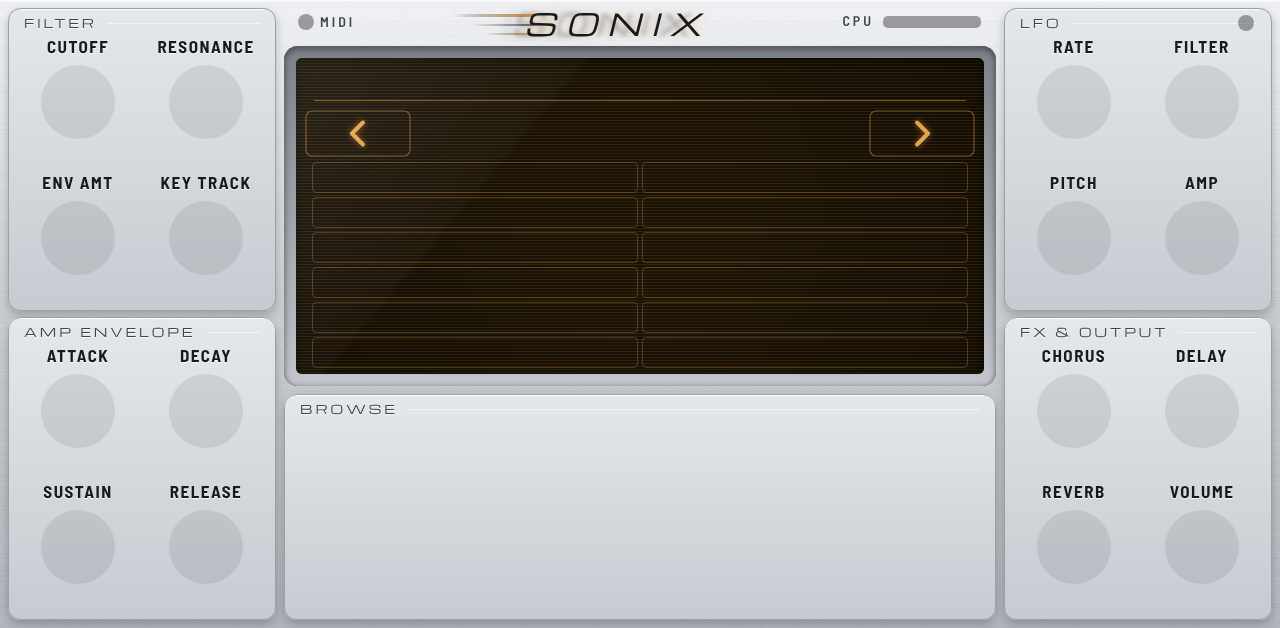
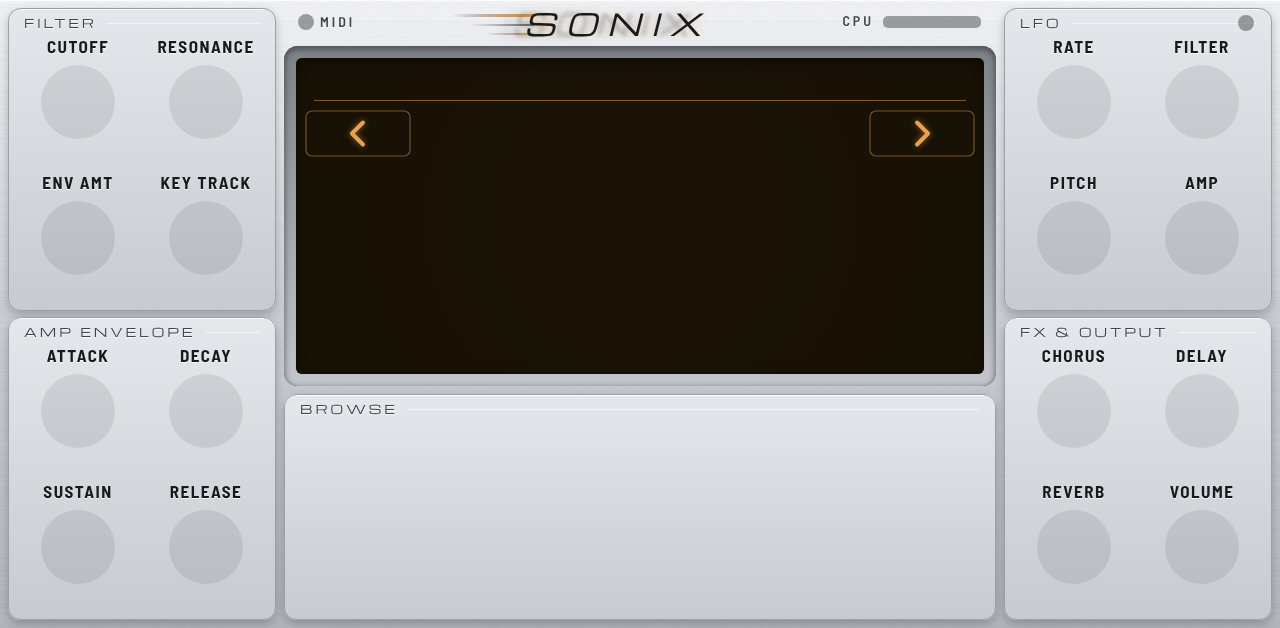
Preset list rows: their own pictures per colorway (the skin builder names them by size), cut from each LCD's glass; per-colorway highlight
Claude-Session: https://claude.ai/code/session_01PybJ2syxRUbVjbLiUhaYAG

Changed region(s): [[0.2188, 0.0908, 0.75, 0.5446]]

diff --git a/tools/make_skin.py b/tools/make_skin.py
@@ -98,6 +98,12 @@ WAVE_FRAMES = 33                                             # 0 idle, then 4 le
 CELL_Y, CELL_H, CELL_W, CELL_GAP = SY + 178, 44, (SW - 32 - 8) // 2, 8   # the four layers, 2 x 2
 LIST_BOX = (SX + 16, SY + 104, SW - 32, 206)                 # the preset list (2 x 6 rows) in place of the waveform view
 LIST_COLS, LIST_ROWS, LIST_TH, LIST_GAP = 2, 6, 31, 4
+
+
+def list_tw(n):
+    """Row width for theme n. The skin builder names a list's row pictures by size, so each colorway's list is 2 px
+    narrower than the one before: its own pictures, invisible on screen."""
+    return (LIST_BOX[2] - 2 * n - (LIST_COLS - 1) * LIST_GAP) // LIST_COLS
 LCD_LINE = (SX + 18, SY + 276, SW - 36, 32)
 LFO_LED = (RX + SIDE_W - 26, SIDE_Y + 15)                    # an LED by the LFO panel's title, lit while the LFO runs
 BROWSE = (CX0, 394, CW, 226)
@@ -269,7 +275,7 @@ const T = {
     panel1:'#262a32', panel2:'#1a1d22', panelEdge:'#0b0c0f', bevelHi:'rgba(255,255,255,0.09)', drop:'rgba(0,0,0,0.55)',
     text:'#e4e7ec', muted:'#a3acba', engrave:[0,-1,'rgba(0,0,0,0.75)'], logo:'#eef1f5', logoGlow:'rgba(76,195,255,0.6)',
     led:'#4cc3ff', ledOff:'#1d2732', ledGlow:'rgba(76,195,255,0.7)',
-    bezel1:'#0b0c0f', bezel2:'#22252c', lcd:'#06121f', lcdText:'#9fe4ff', lcdDim:'#7cc2e6', rowFill:0.26, lcdFaint:'rgba(143,220,255,0.10)', lcdGlow:'rgba(120,210,255,0.5)',
+    bezel1:'#0b0c0f', bezel2:'#22252c', lcd:'#06121f', lcdText:'#9fe4ff', lcdDim:'#7cc2e6', rowFill:0.2, lcdFaint:'rgba(143,220,255,0.10)', lcdGlow:'rgba(120,210,255,0.5)',
     knobHi:'#5a616d', knobLo:'#0a0b0d', knobEdge:'#050607', capHi:'#454a54', capLo:'#16181c', ridge:'rgba(255,255,255,0.10)', knobLine:'#eef1f5',
     btnTop:'#3b404a', btnBot:'#22252b', btnOnTop:'#16293c', btnOnBot:'#0e1b28', btnEdge:'#0b0c0f', btnShadow:'#07080a', btnText:'#d9dde4',
     btnEngrave:[0,-1,'rgba(0,0,0,0.75)'], screw:['#70767f','#2a2d33'], well:'rgba(0,0,0,0.16)', name:'MIDNIGHT' },
@@ -277,7 +283,7 @@ const T = {
     panel1:'#e4e7eb', panel2:'#c7cbd1', panelEdge:'#9aa0a7', bevelHi:'rgba(255,255,255,0.9)', drop:'rgba(0,0,0,0.22)',
     text:'#16191d', muted:'#3d444e', engrave:[0,1,'rgba(255,255,255,0.8)'], logo:'#16191d', logoGlow:'rgba(255,154,31,0.4)',
     led:'#ff9a1f', ledOff:'#9f9b93', ledGlow:'rgba(255,154,31,0.7)',
-    bezel1:'#7c8188', bezel2:'#c3c7cd', lcd:'#1a1206', lcdText:'#ffbe5c', lcdDim:'#e6a24f', rowFill:0.26, lcdFaint:'rgba(255,182,72,0.10)', lcdGlow:'rgba(255,170,60,0.5)',
+    bezel1:'#7c8188', bezel2:'#c3c7cd', lcd:'#1a1206', lcdText:'#ffbe5c', lcdDim:'#e6a24f', rowFill:0.2, lcdFaint:'rgba(255,182,72,0.10)', lcdGlow:'rgba(255,170,60,0.5)',
     knobHi:'#7c828c', knobLo:'#121417', knobEdge:'#0c0d0f', capHi:'#686e77', capLo:'#1e2125', ridge:'rgba(255,255,255,0.13)', knobLine:'#f4f4f4',
     btnTop:'#fbfbfc', btnBot:'#cdd1d6', btnOnTop:'#fff5e6', btnOnBot:'#efd2ad', btnEdge:'#939880', btnShadow:'#858a91', btnText:'#1f2328',
     btnEngrave:[0,1,'rgba(255,255,255,0.85)'], screw:['#ffffff','#999da4'], well:'rgba(0,0,0,0.08)', name:'PLATINUM' },
@@ -285,7 +291,7 @@ const T = {
     panel1:'#b8bbbf', panel2:'#9ea1a5', panelEdge:'#7a7d82', bevelHi:'rgba(255,255,255,0.6)', drop:'rgba(0,0,0,0.26)',
     text:'#121417', muted:'#262a2f', engrave:[0,1,'rgba(255,255,255,0.5)'], logo:'#121417', logoGlow:'rgba(255,61,46,0.3)',
     led:'#ff3d2e', ledOff:'#74777b', ledGlow:'rgba(255,61,46,0.65)',
-    bezel1:'#222427', bezel2:'#4b4e52', lcd:'#a8bc86', lcdText:'#16200c', lcdDim:'#3a4826', rowFill:0.85, rowTint:'#d6e6b8', lcdFaint:'rgba(22,32,12,0.08)', lcdGlow:'rgba(0,0,0,0)',
+    bezel1:'#222427', bezel2:'#4b4e52', lcd:'#a8bc86', lcdText:'#16200c', lcdDim:'#3a4826', rowFill:0.45, rowTint:'#eef6dc', lcdFaint:'rgba(22,32,12,0.08)', lcdGlow:'rgba(0,0,0,0)',
     knobHi:'#6e747d', knobLo:'#101113', knobEdge:'#0a0b0c', capHi:'#5b6068', capLo:'#1a1c1f', ridge:'rgba(255,255,255,0.11)', knobLine:'#f0f0f0',
     btnTop:'#eceef0', btnBot:'#b7babe', btnOnTop:'#fff1ef', btnOnBot:'#efc6c0', btnEdge:'#73767b', btnShadow:'#62656a', btnText:'#15171a',
     btnEngrave:[0,1,'rgba(255,255,255,0.6)'], screw:['#e7e8ea','#7c7f84'], well:'rgba(0,0,0,0.10)', name:'STUDIO GREY' },
@@ -352,16 +358,16 @@ function logo(t, lx, ly, size) {
   text('SONIX', lx, ly, { size: size, font: 'Michroma', weight: 400, italic: 1, spacing: 10 * s, color: t.logo, glow: t.logoGlow, glowBlur: 10 * s });
 }
 // a recessed LCD: bezel, screen, vignette, inner shadow (glass glare is drawn last, over the content)
-function lcdFrame(t, bezel, screen, r) {
+function lcdFrame(t, bezel, screen, r, smooth) {   // smooth: the list view's glass (no scan lines, a faint vignette)
   const [bx, by, bw, bh] = bezel, [sx, sy, sw, sh] = screen;
   rr(bx, by, bw, bh, r + 8); ctx.fillStyle = lin(by, by + bh, [t.bezel1, t.bezel2]); ctx.fill();
   ctx.save(); rr(bx, by, bw, bh, r + 8); ctx.clip(); ctx.strokeStyle = 'rgba(0,0,0,0.8)'; ctx.lineWidth = 4; ctx.shadowColor = 'rgba(0,0,0,0.8)'; ctx.shadowBlur = 6; ctx.shadowOffsetY = 2; rr(bx - 2, by - 2, bw + 4, bh + 4, r + 10); ctx.stroke(); ctx.restore();
   rr(sx, sy, sw, sh, r); ctx.fillStyle = t.lcd; ctx.fill();
   ctx.save(); rr(sx, sy, sw, sh, r); ctx.clip();
   const vg = ctx.createRadialGradient(sx + sw / 2, sy + sh / 2, sh * 0.3, sx + sw / 2, sy + sh / 2, sw * 0.7);
-  vg.addColorStop(0, 'rgba(0,0,0,0)'); vg.addColorStop(1, 'rgba(0,0,0,0.45)'); ctx.fillStyle = vg; ctx.fillRect(sx, sy, sw, sh);
+  vg.addColorStop(0, 'rgba(0,0,0,0)'); vg.addColorStop(1, smooth ? 'rgba(0,0,0,0.12)' : 'rgba(0,0,0,0.45)'); ctx.fillStyle = vg; ctx.fillRect(sx, sy, sw, sh);
   // a fine pixel grid: the LCD's dot matrix
-  ctx.fillStyle = t.lcdFaint; for (let y = sy + 2; y < sy + sh; y += 3) ctx.fillRect(sx, y, sw, 1);
+  if (!smooth) { ctx.fillStyle = t.lcdFaint; for (let y = sy + 2; y < sy + sh; y += 3) ctx.fillRect(sx, y, sw, 1); }
   ctx.strokeStyle = 'rgba(0,0,0,0.75)'; ctx.lineWidth = 6; ctx.shadowColor = 'rgba(0,0,0,0.85)'; ctx.shadowBlur = 10; ctx.shadowOffsetY = 3; rr(sx - 3, sy - 3, sw + 6, sh + 6, r + 2); ctx.stroke();
   ctx.restore();
 }
@@ -380,7 +386,7 @@ function rowLit(t, x, y, w, h) {   // the selected preset: a tinted bar, a brigh
 function rowOff(th, w, h) { const t = T[th]; setup(w, h); ctx.fillStyle = t.lcd; ctx.fillRect(0, 0, w, h);
   ctx.fillStyle = t.lcdFaint; for (let y = 2; y < h; y += 3) ctx.fillRect(0, y, w, 1);
   rr(0.5, 0.5, w - 1, h - 1, 4); ctx.strokeStyle = t.lcdDim; ctx.globalAlpha = 0.3; ctx.stroke(); return out(); }
-function rowOn(th, w, h) { const t = T[th]; setup(w, h); ctx.fillStyle = t.lcd; ctx.fillRect(0, 0, w, h); rowLit(t, 0, 0, w, h); return out(); }
+function rowOn(th, w, h) { const t = T[th]; setup(w, h); rowLit(t, 0, 0, w, h); return out(); }
 function glare(screen, r) {
   const [sx, sy, sw, sh] = screen;
   ctx.save(); rr(sx, sy, sw, sh, r); ctx.clip();
@@ -426,7 +432,8 @@ function background(th, items) {
       ctx.beginPath(); ctx.arc(it.cx, it.cy + 2, C.KNOB_R + 1, 0, 2 * Math.PI); ctx.fillStyle = t.well; ctx.fill();
     } else if (it.t === 'lcd' || it.t === 'minilcd' || it.t === 'about') {
       const r = it.t === 'minilcd' ? 4 : 6;
-      lcdFrame(t, it.bezel, it.screen, r); glares.push([it.screen, r]);
+      const smooth = items.some(q => q.t === 'list');
+      lcdFrame(t, it.bezel, it.screen, r, smooth && it.t === 'lcd'); if (!(smooth && it.t === 'lcd')) glares.push([it.screen, r]);
       if (it.t === 'about') aboutScreen(t, it.screen);
     } else if (it.t === 'rule') {
       ctx.save(); ctx.strokeStyle = t.lcdDim; ctx.globalAlpha = 0.5; ctx.beginPath(); ctx.moveTo(it.x, it.y + 0.5); ctx.lineTo(it.x + it.w, it.y + 0.5); ctx.stroke(); ctx.restore();
@@ -446,9 +453,7 @@ function background(th, items) {
     } else if (it.t === 'lcdled') {
       if (it.label) lcdGlyph(t, it.label, it.cx + 14, it.cy + 6, { size: 15, font: 'Michroma', weight: 400, color: t.lcdDim, glow: null });
     } else if (it.t === 'list') {
-      listTiles(it).forEach(([x, y, w, h]) => {
-        ctx.save(); rr(x + 0.5, y + 0.5, w - 1, h - 1, 4); ctx.strokeStyle = t.lcdDim; ctx.globalAlpha = 0.28; ctx.lineWidth = 1; ctx.stroke(); ctx.restore();
-      });
+      // nothing: idle rows are clear, straight on the LCD glass
     } else if (it.t === 'catgrid') {
       // nothing: the grid is a picture; its panel is the BROWSE panel
     } else if (it.t === 'divider') {
@@ -709,9 +714,20 @@ def export_art():
                     save(ev("background", th, in_view(items, 1)), os.path.join(d, "bg_main_list.png"))
                 else:
                     save(ev("background", th, items), os.path.join(d, "bg_%s.png" % name.lower()))
-            tw = (LIST_BOX[2] - (LIST_COLS - 1) * LIST_GAP) // LIST_COLS
-            save(ev("rowOn", th, tw, LIST_TH), os.path.join(d, "row_on.png"))
-            save(ev("rowOff", th, tw, LIST_TH), os.path.join(d, "row_off.png"))
+            # list rows: the skin builder flattens row pictures onto a solid colour, so a "clear" row is cut from this
+            # colorway's own LCD (a middle row of the list view), and the lit row is that cut plus the highlight
+            from PIL import Image
+            tw = list_tw(THEMES.index(th))
+            bgl = Image.open(os.path.join(d, "bg_main_list.png")).convert("RGBA")
+            x0, y0 = LIST_BOX[0], LIST_BOX[1] + 2 * (LIST_TH + LIST_GAP)
+            glass = bgl.crop((x0, y0, x0 + tw, y0 + LIST_TH))
+            glass.save(os.path.join(d, "row_off.png"))
+            save(ev("rowOn", th, tw, LIST_TH), os.path.join(d, "row_on_overlay.png"))
+            lit = glass.copy()
+            ov = Image.open(os.path.join(d, "row_on_overlay.png")).convert("RGBA")
+            lit.alpha_composite(ov)
+            lit.save(os.path.join(d, "row_on.png"))
+            os.remove(os.path.join(d, "row_on_overlay.png"))
             save(ev("knobStrip", th, 128, KNOB_R), os.path.join(d, "knob.png"))
             save(ev("gridStrip", th, CATS, 6, BTN_W, BTN_H, BTN_GAP, 10), os.path.join(d, "cats.png"))
             save(ev("pressOverlay", th, BTN_W, BTN_H), os.path.join(d, "press.png"))
@@ -808,8 +824,8 @@ def write_layout():
                         x + w // 2 - 12, y + h // 2 + Y, w, h, it["size"], LCD_INK[th][0], n))
                 elif it["t"] == "list":
                     x, y, w, h = it["box"]
-                    L.append('list x=%d y=%d w=%d h=%d key=row cols=%d rows=%d order=cols th=%d gap=%d tsize=%d tcolor=%s tweight=semibold talign=left tx=16 color=%s img=art/%s/row_off.png img_on=art/%s/row_on.png when=theme:%d' % (
-                        x, y + Y, w, h, LIST_COLS, LIST_ROWS, LIST_TH, LIST_GAP, LCD_PX["list"], LCD_INK[th][0], LCD_BG[th], th, th, n))
+                    L.append('list x=%d y=%d w=%d h=%d key=row cols=%d rows=%d order=cols th=%d gap=%d tsize=%d tcolor=%s tweight=semibold talign=left tx=16 img=art/%s/row_off.png img_on=art/%s/row_on.png when=theme:%d' % (
+                        x, y + Y, w - 2 * n, h, LIST_COLS, LIST_ROWS, LIST_TH, LIST_GAP, LCD_PX["list"], LCD_INK[th][0], th, th, n))
                 elif it["t"] in ("toggle", "button"):
                     pic_button(it["t"], it["key"], it["key"], it["x"], it["y"], n, th)
                 elif it["t"] == "knob":
